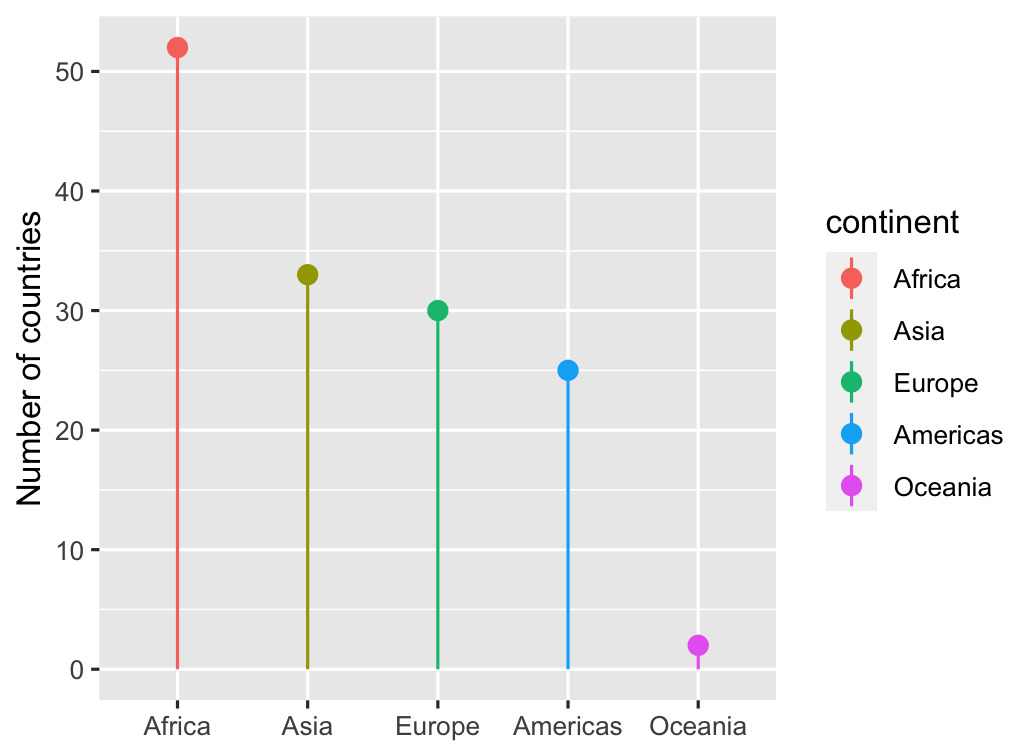
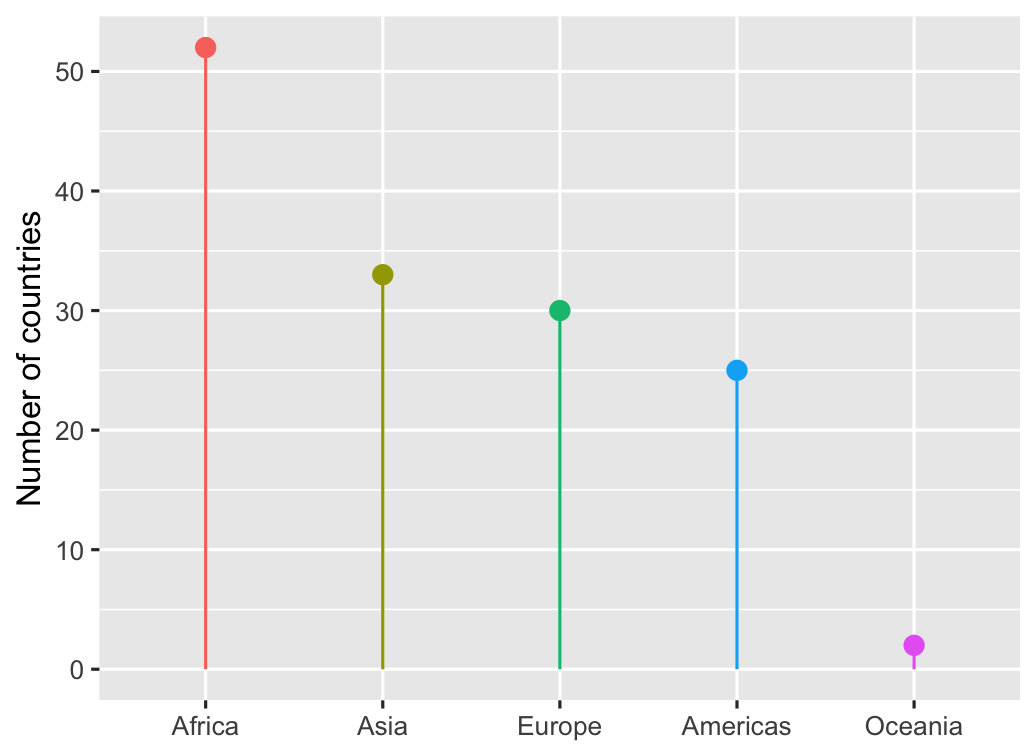
Switch fill to color

diff --git a/static/slides/04-slides.html b/static/slides/04-slides.html
@@ -4,7 +4,7 @@
     <title>Amounts and proportions</title>
     <meta charset="utf-8" />
     <meta name="author" content="Andrew Heiss" />
-    <meta name="date" content="2020-05-13" />
+    <meta name="date" content="2020-05-21" />
     <script src="libs/header-attrs-2.1/header-attrs.js"></script>
     <link href="libs/remark-css-0.0.1/default.css" rel="stylesheet" />
     <link rel="stylesheet" href="css/ath-slides.css" type="text/css" />
@@ -531,7 +531,7 @@ ggplot(gapminder_continents,
        aes(x = continent, y = n, 
            color = continent)) +
   geom_pointrange(aes(ymin = 0, ymax = n)) +
-  guides(fill = FALSE) +
+  guides(color = FALSE) +
   labs(x = NULL, y = "Number of countries")
 ```
 ]
@@ -565,7 +565,7 @@ ggplot(gapminder_continents,
               flip = TRUE) +
   labs(fill = NULL) +
   coord_equal() +  # Make all the squares square
-  theme_void()  # Us a completely empty theme
+  theme_void()  # Use a completely empty theme
 ```
 
 ]
